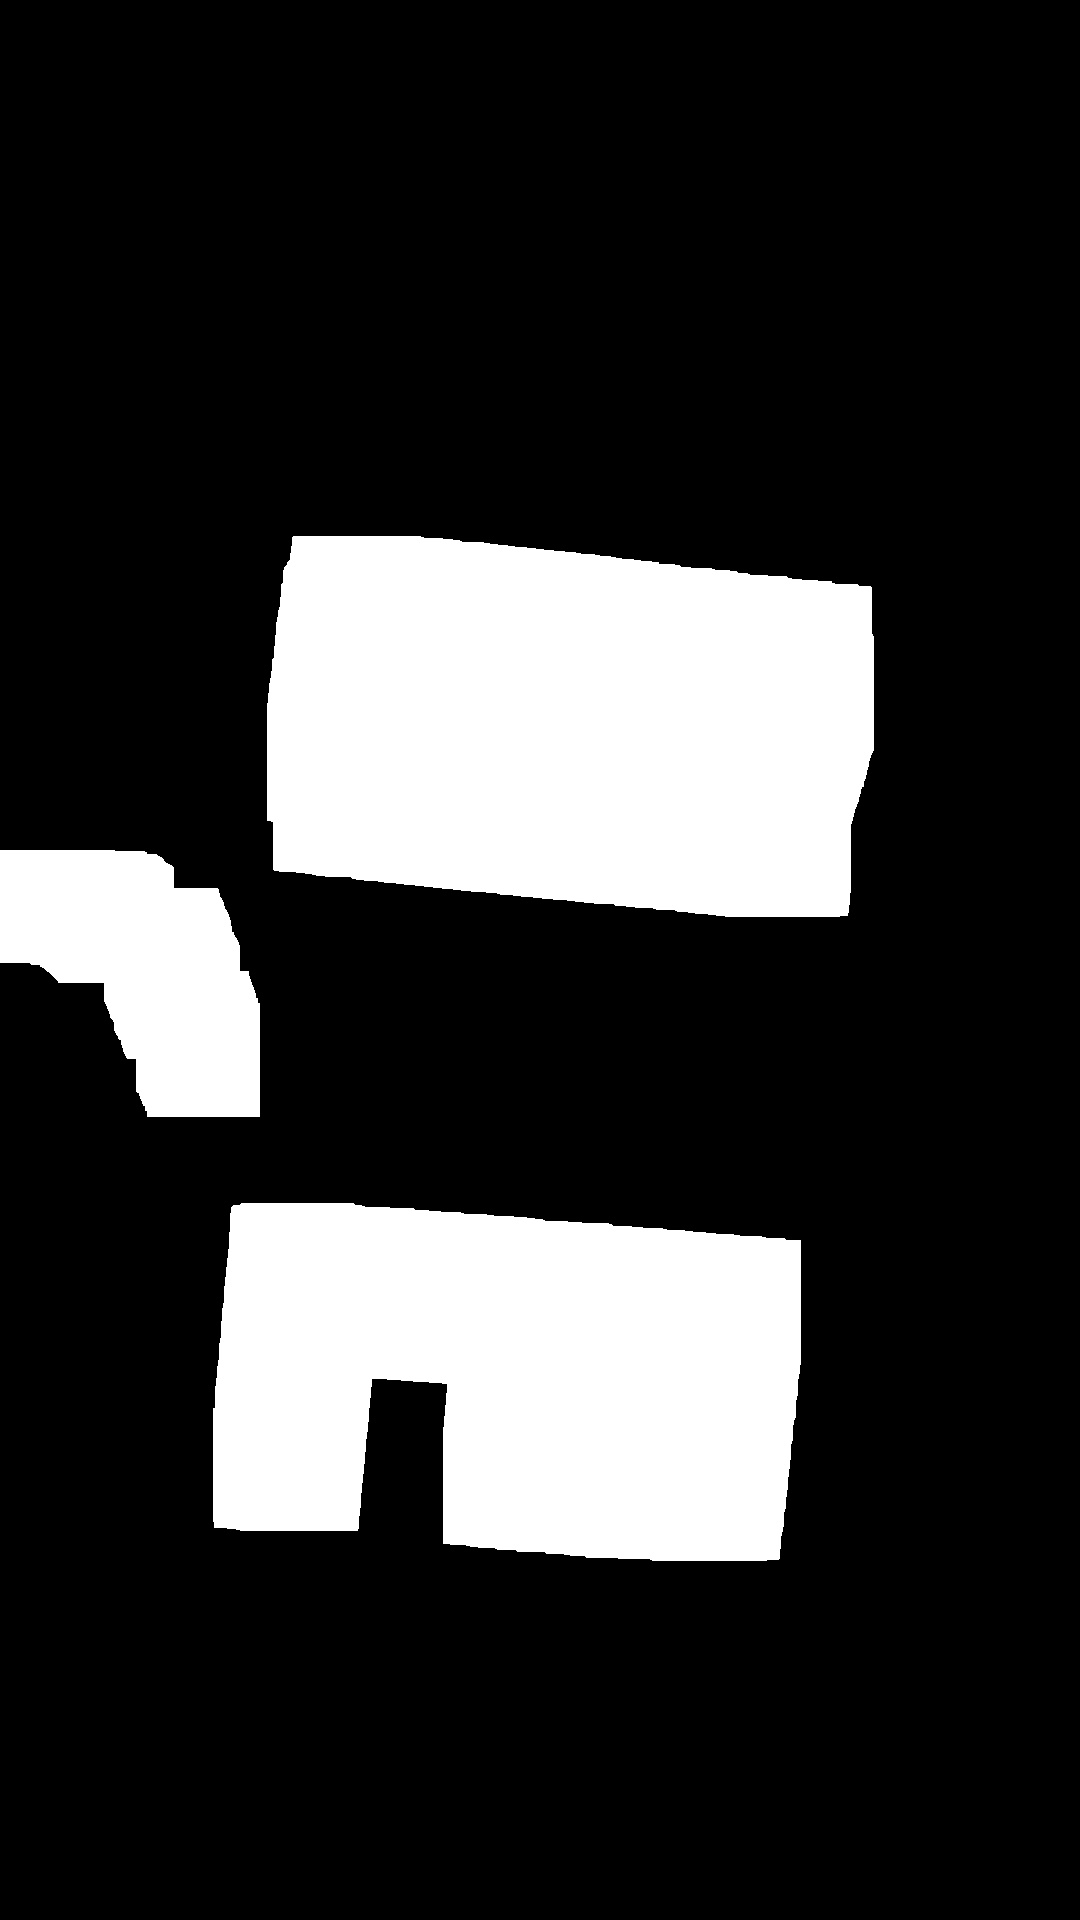
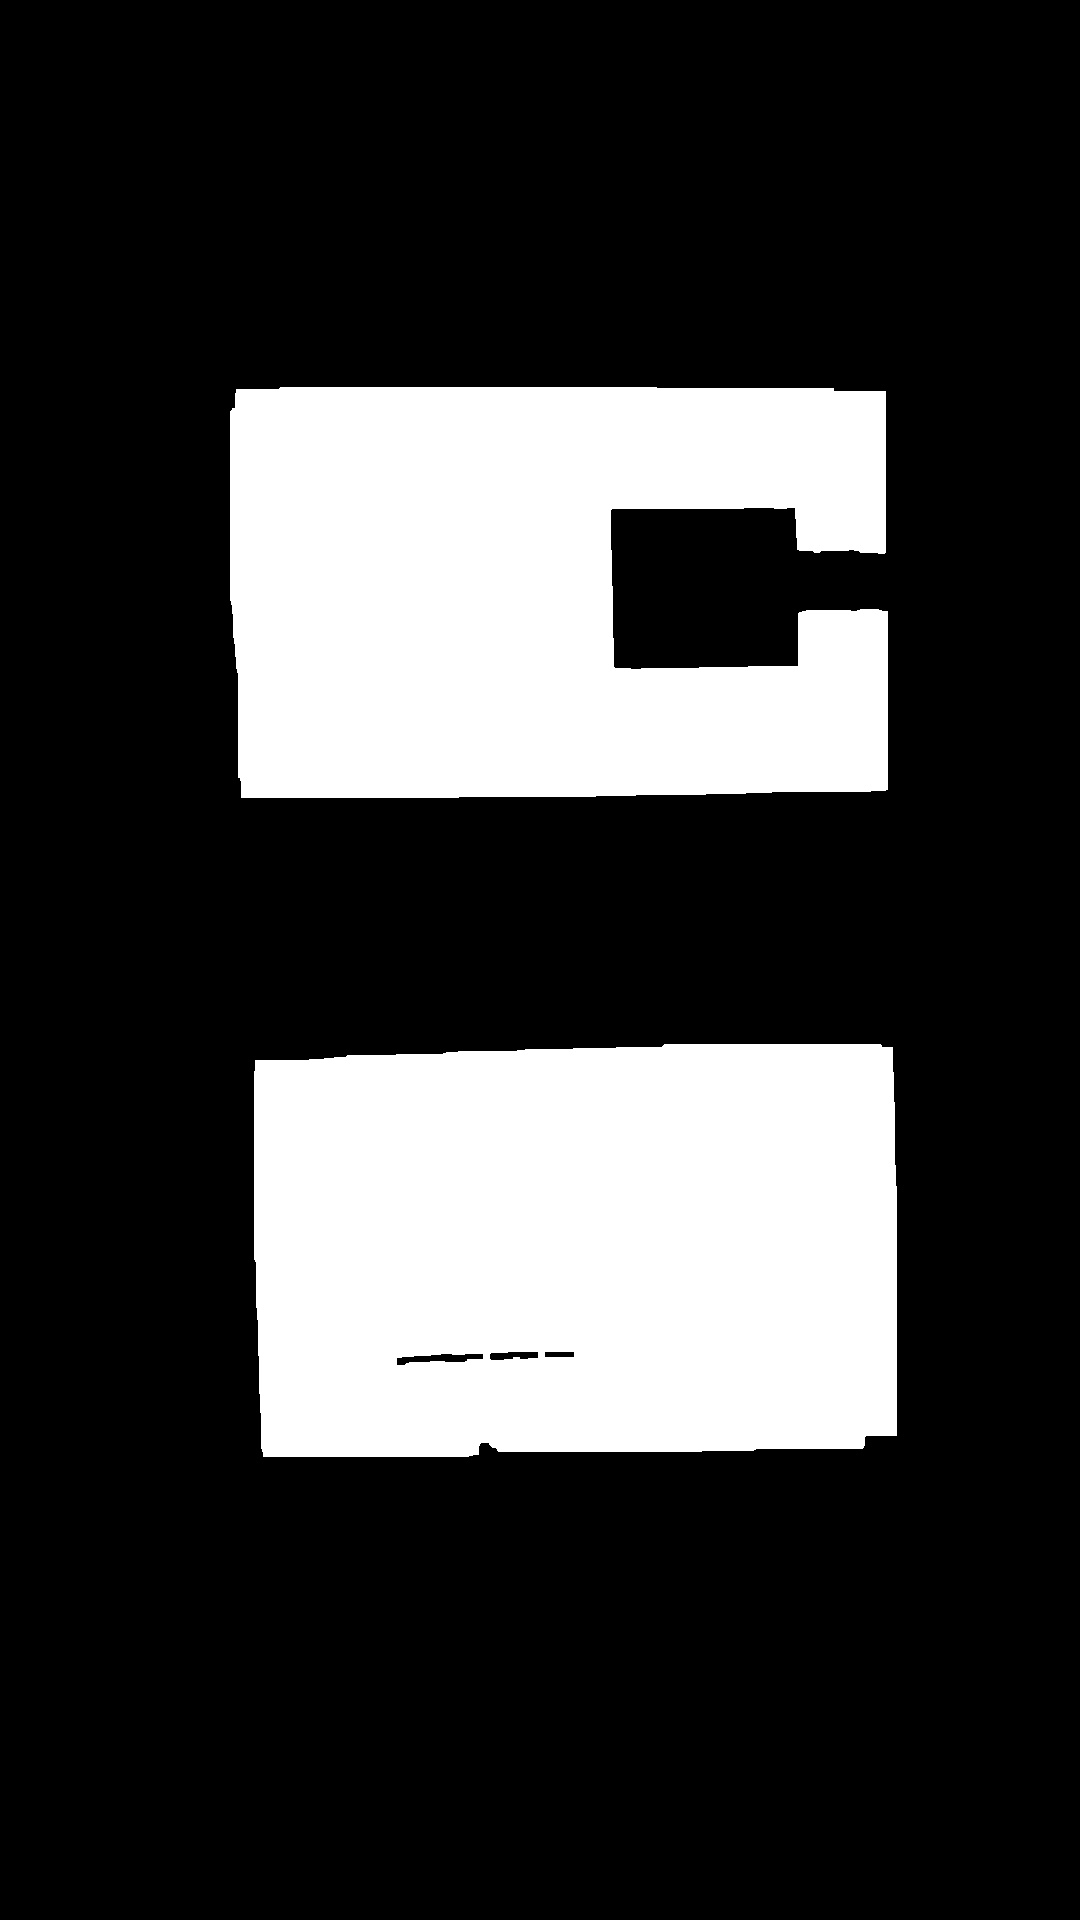
commit final obstacle and path

Changed region(s): [[0.0, 0.4375, 0.8556, 0.8125], [0.2139, 0.1875, 0.825, 0.5], [0.4583, 0.6875, 0.4889, 0.7188]]

diff --git a/Map.py b/Map.py
@@ -48,7 +48,7 @@ class Map :
         
     
     
-    def security_grid_expand(self, frame, robot_len = 0.05, security_margin = 0.03):
+    def security_grid_expand(self, frame, mask_green, robot_len = 0.05, security_margin = 0.06):
         """
         Expand the grid to avoid the robot colyding whit an obstacle
         :param frame: the video frame 
@@ -68,22 +68,31 @@ class Map :
         for i in range(len_i):
             if sum(frame[i,:] != 0): # this if allow to avoid the second loop if there is no obstacle on this line
                 for j in range(len_j):
-                    if frame[i][j] > 50:
+                    if (frame[i][j] > 50):
                         new_frame[(i-sec_square):(i+1+sec_square),(j-sec_square):(j+1+sec_square)] = 255
+
+        
+    
+        idx = np.where(mask_green == 255)
+        new_frame[idx] = 0
+        
         return new_frame
                             
                         
     
-    def init_grid(self, frame):
+    def init_grid(self, frame, mask_green):
         
         frame =np.flipud(frame)
         frame = np.transpose(frame)
+        mask_green =np.flipud(mask_green)
+        mask_green = np.transpose(mask_green)
         pourcentage = self._pourcentage
         dim_t = self.map_lenght_in_square
 
 
-        secured_frame = self.security_grid_expand(frame)
+        secured_frame = self.security_grid_expand(frame, mask_green)
         #cv2.imshow("secured", secured_frame)
+        print("SECURED")
         cv2.imwrite("secured.jpg", secured_frame)
         
         # resize image
@@ -93,6 +102,7 @@ class Map :
         #print('Resized Dimensions : ',resized_frame.shape)
         
         #cv2.imshow("rezize mask", resized_frame)
+        print("RESIZE")
         cv2.imwrite("rezize.jpg", resized_frame)
         
         """

diff --git a/vision.py b/vision.py
@@ -15,7 +15,7 @@ np.set_printoptions(threshold=sys.maxsize)
 
 blue = 120
 green = 60
-red = 150 # ou 10
+red = 160 # ou 10
 ROUGE = (0, 0, 255)
 GREEN = (0, 255, 0)
 BLEU = (255, 0, 0)
